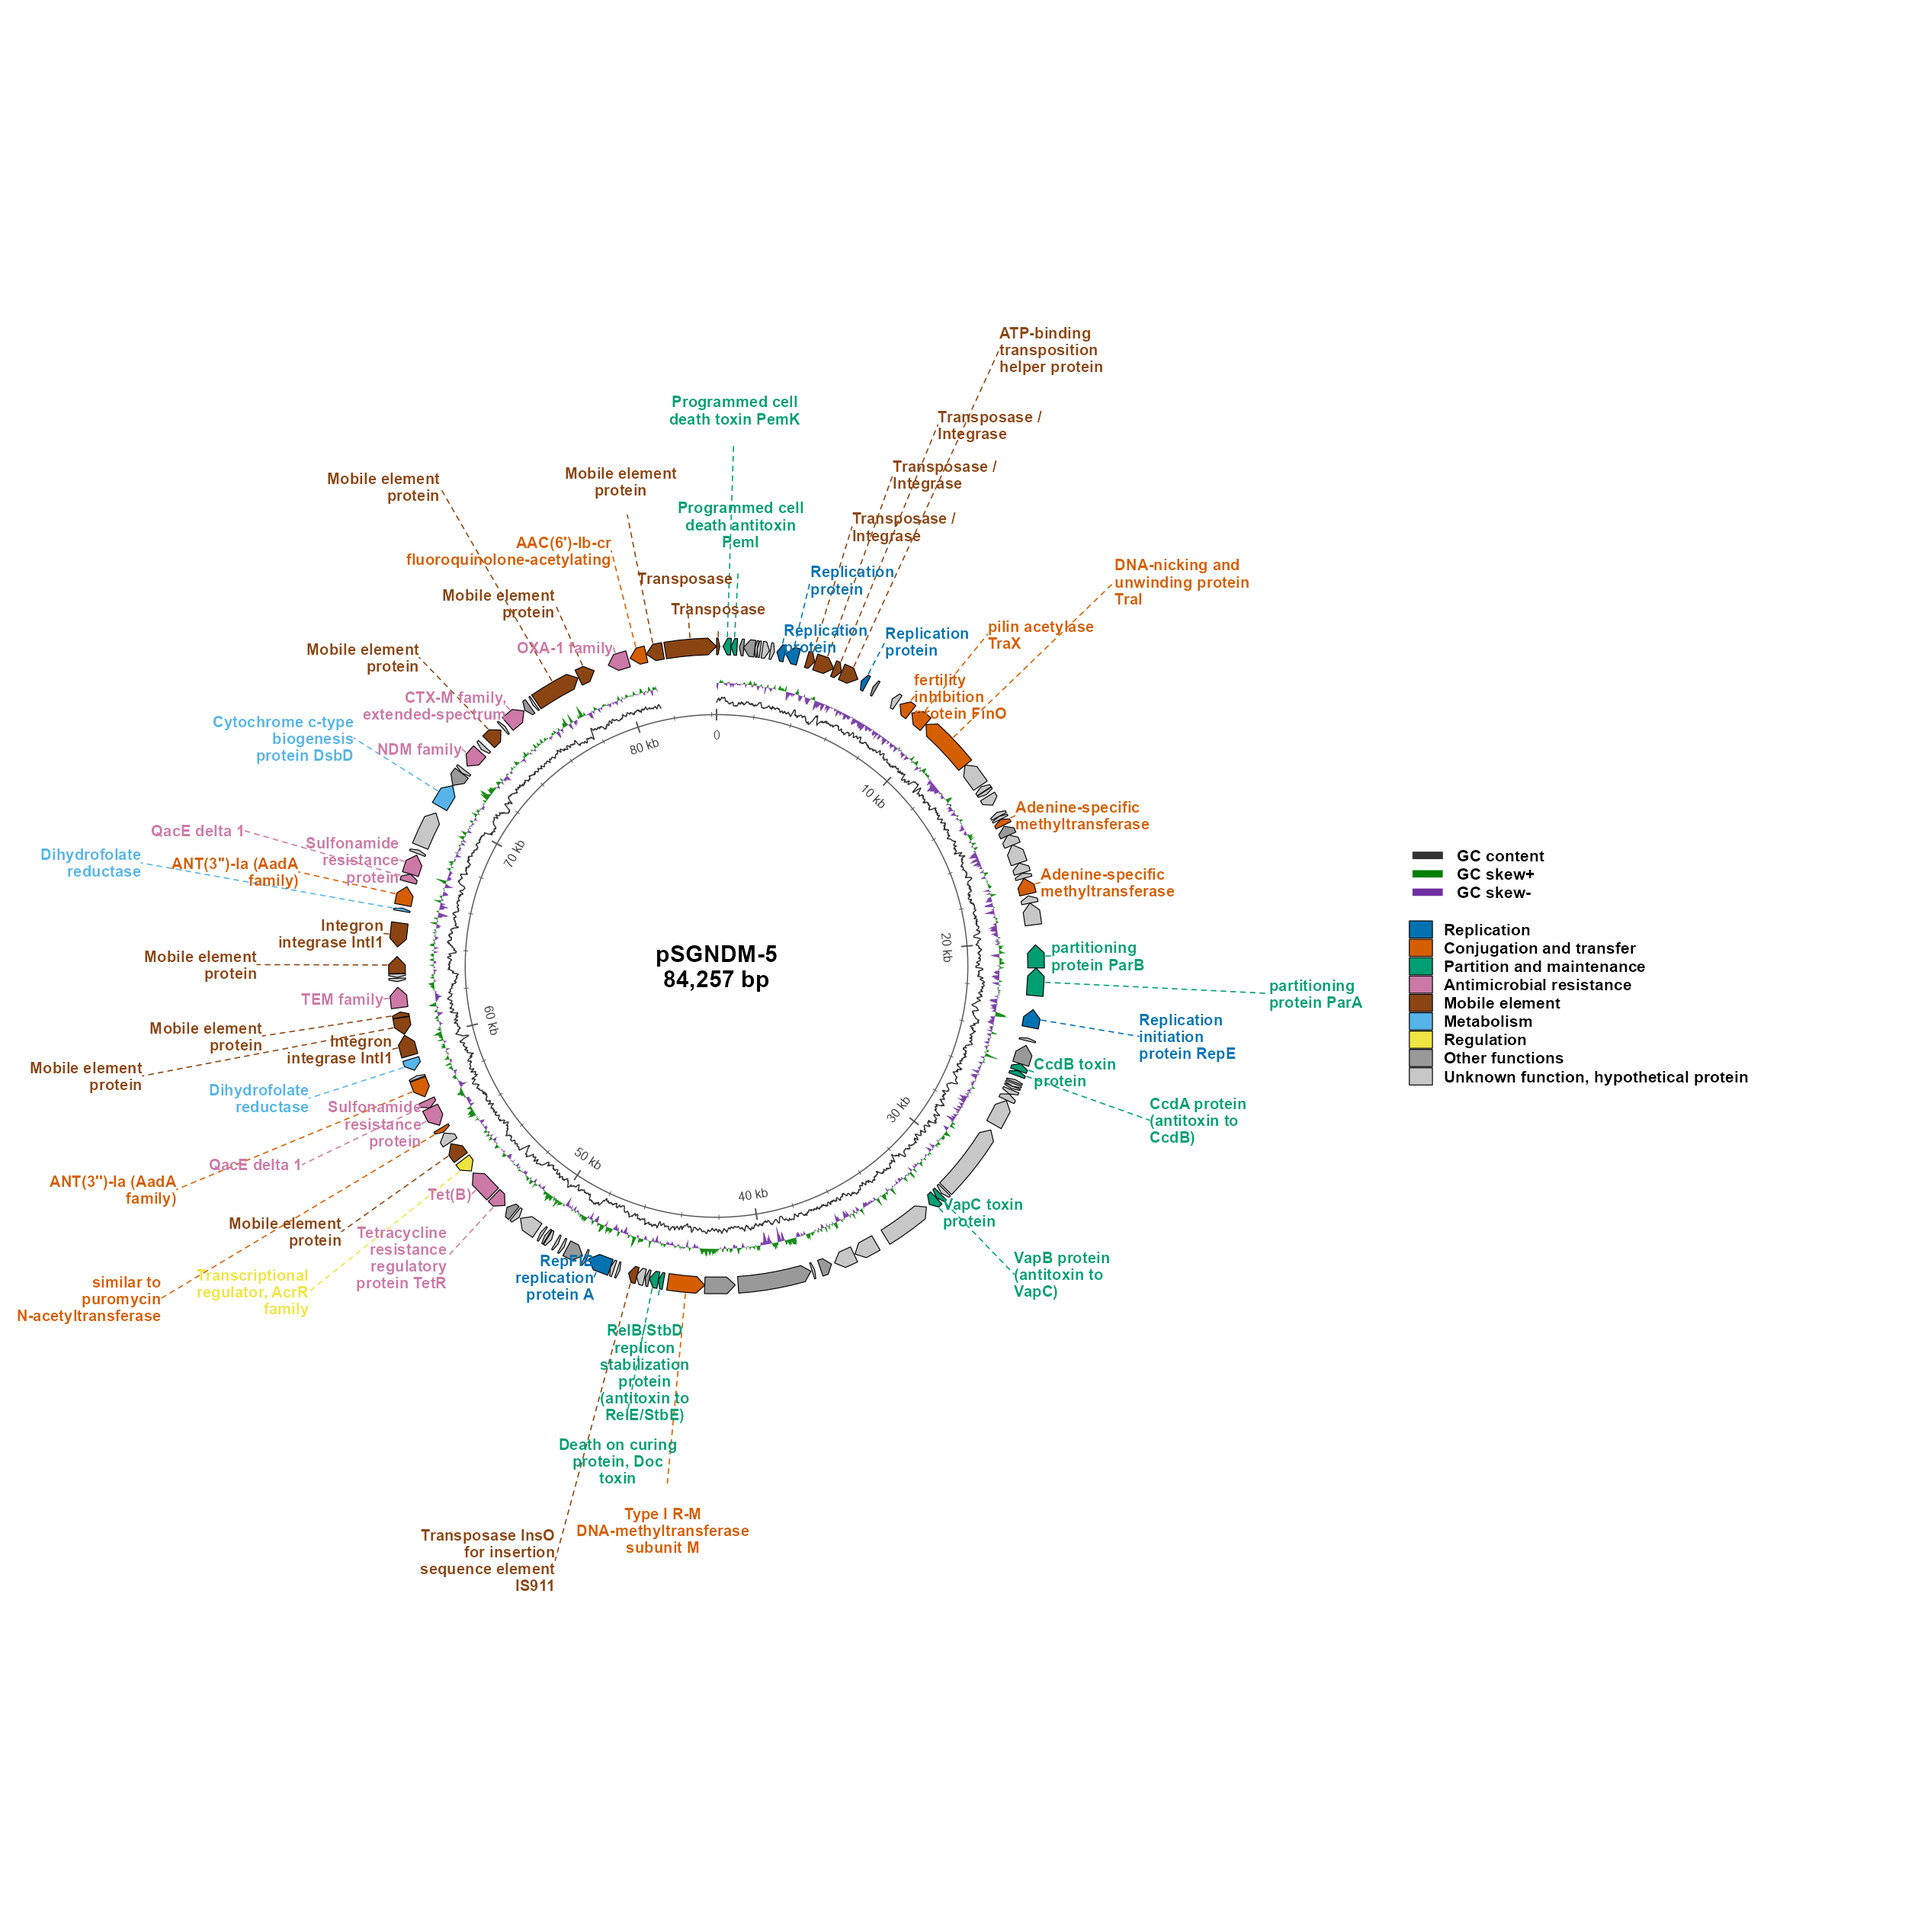
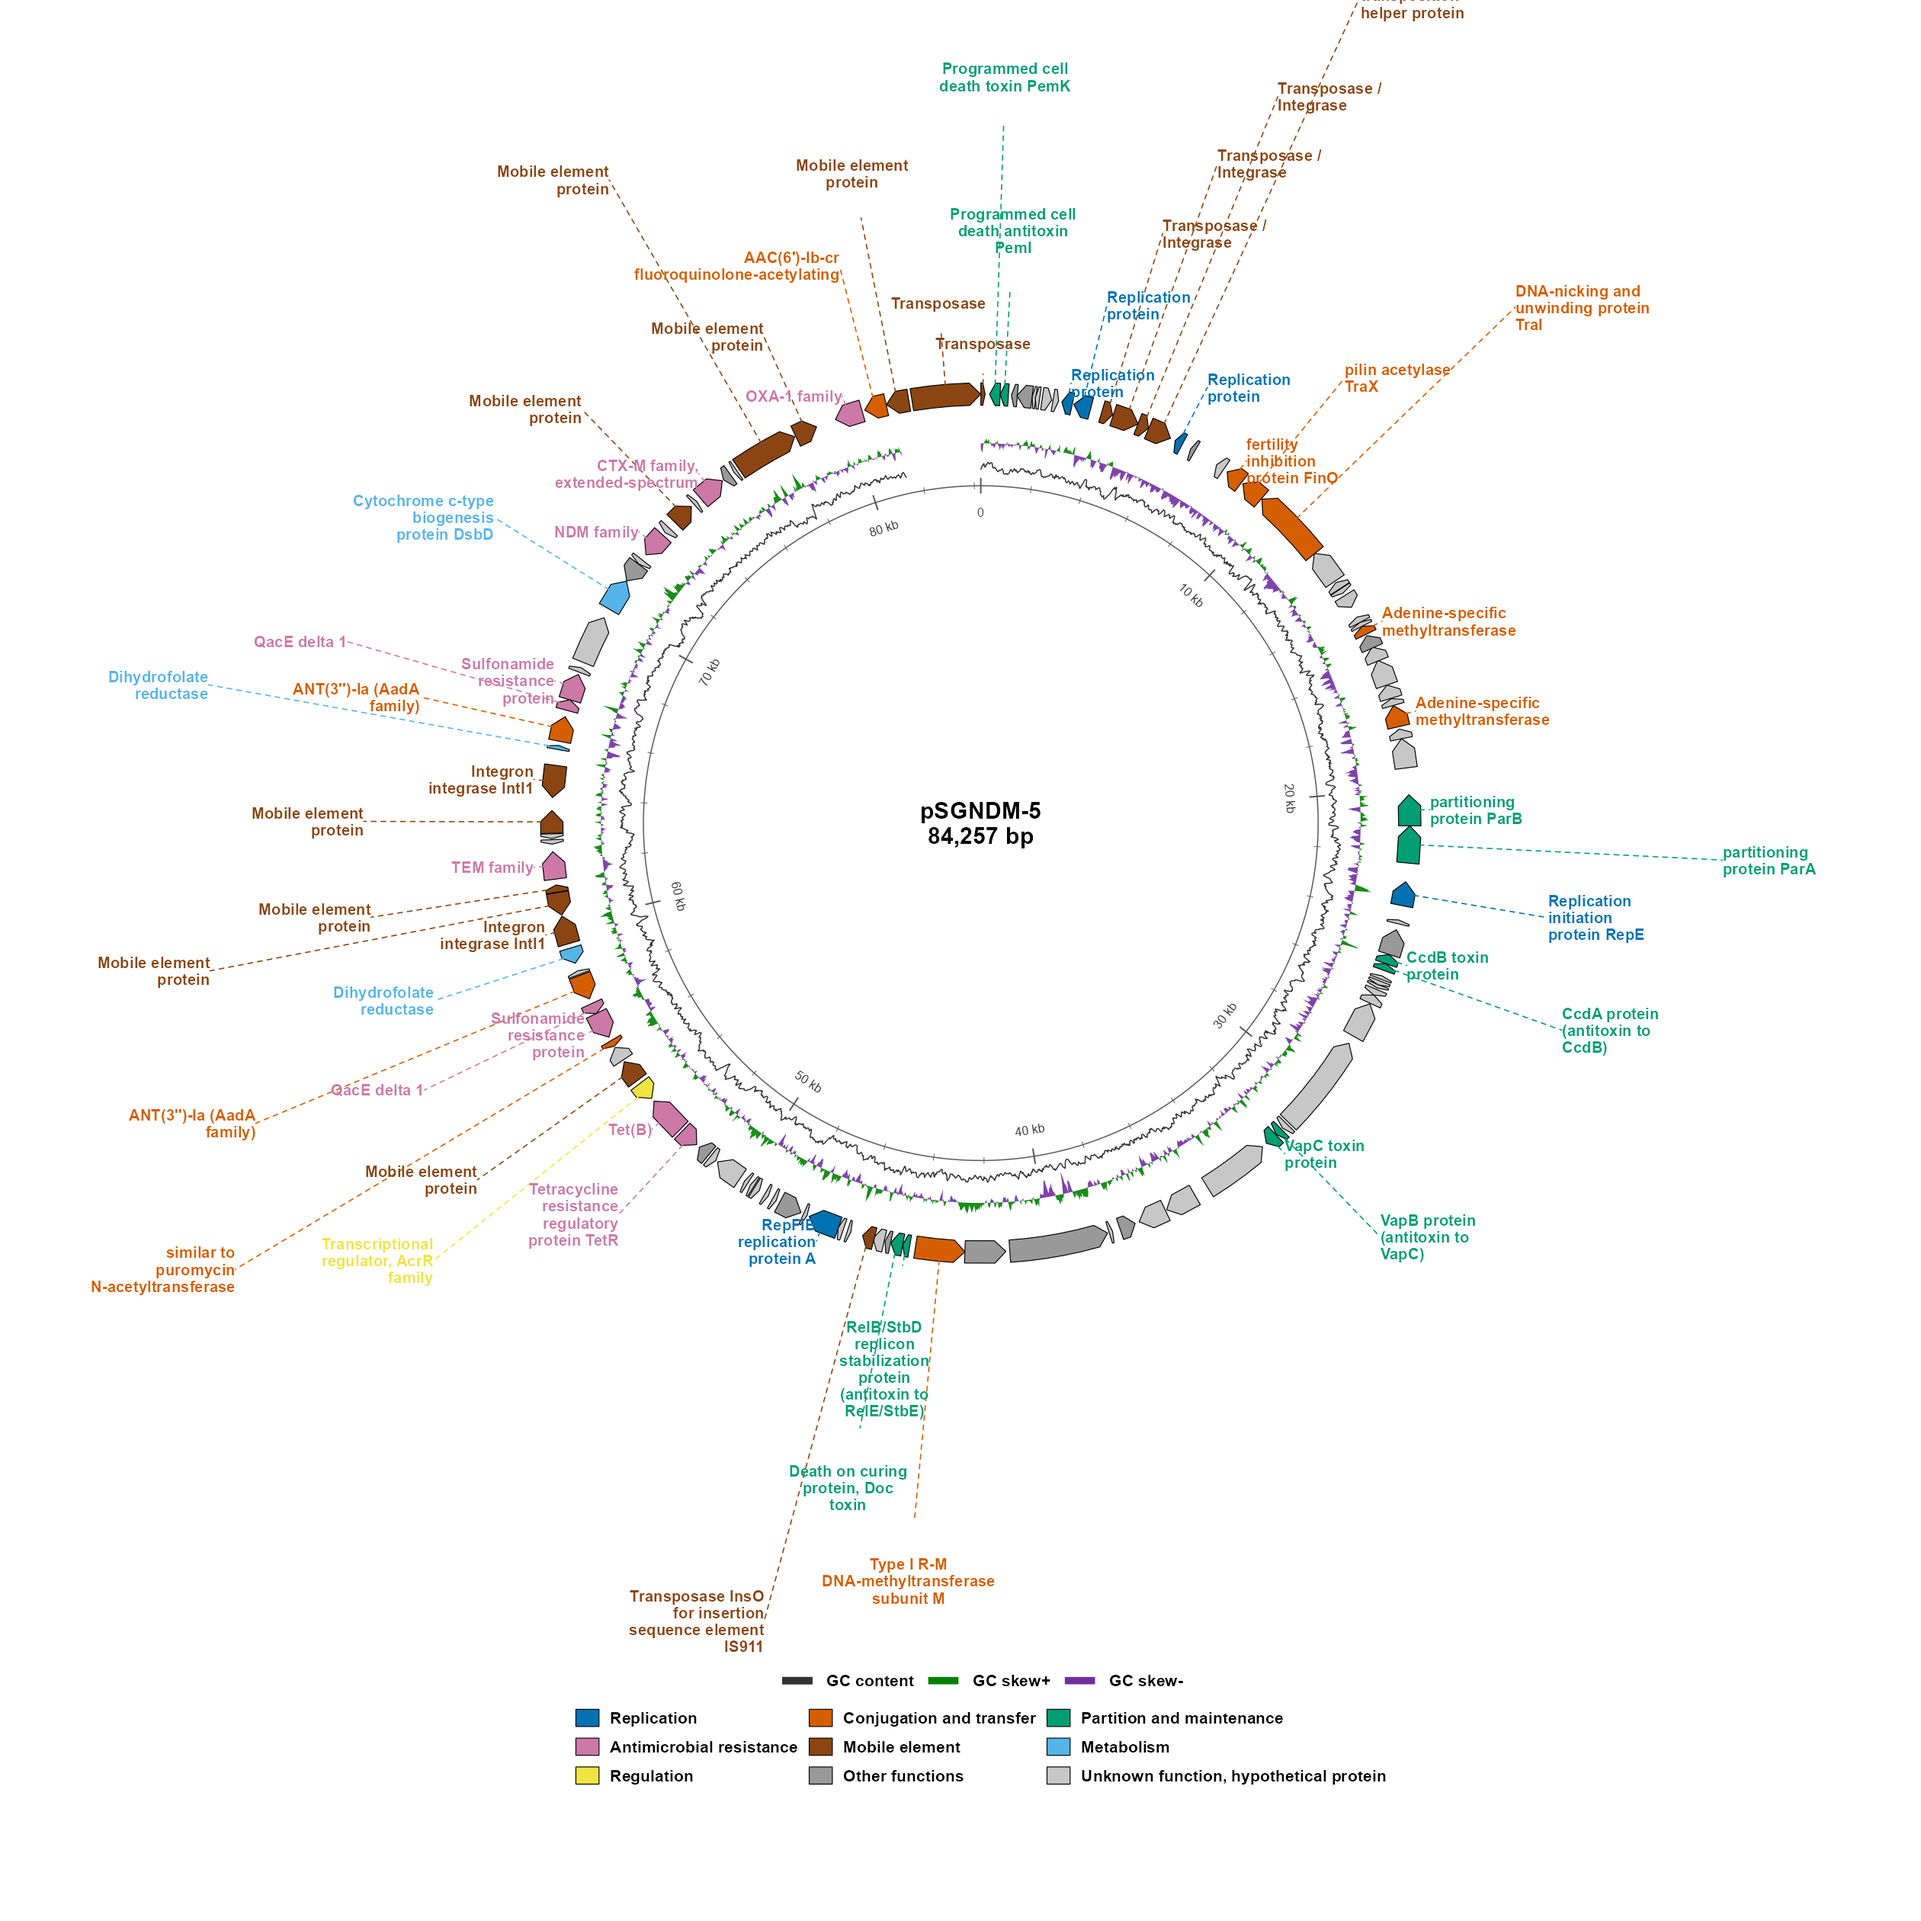
Fix extended palette colors

diff --git a/README.md b/README.md
@@ -59,7 +59,7 @@ p_circular <- ggplasmid(
   label_exclude_categories = "Other functions", # hide these labels only
   label_text_colour = "category",             # color label text by category
   label_line_colour = "category",             # color leader lines by category
-  legend_position = "right"                   # put legends beside the map
+  legend_position = "bottom"                  # put legends below the map
 )
 
 p_circular
